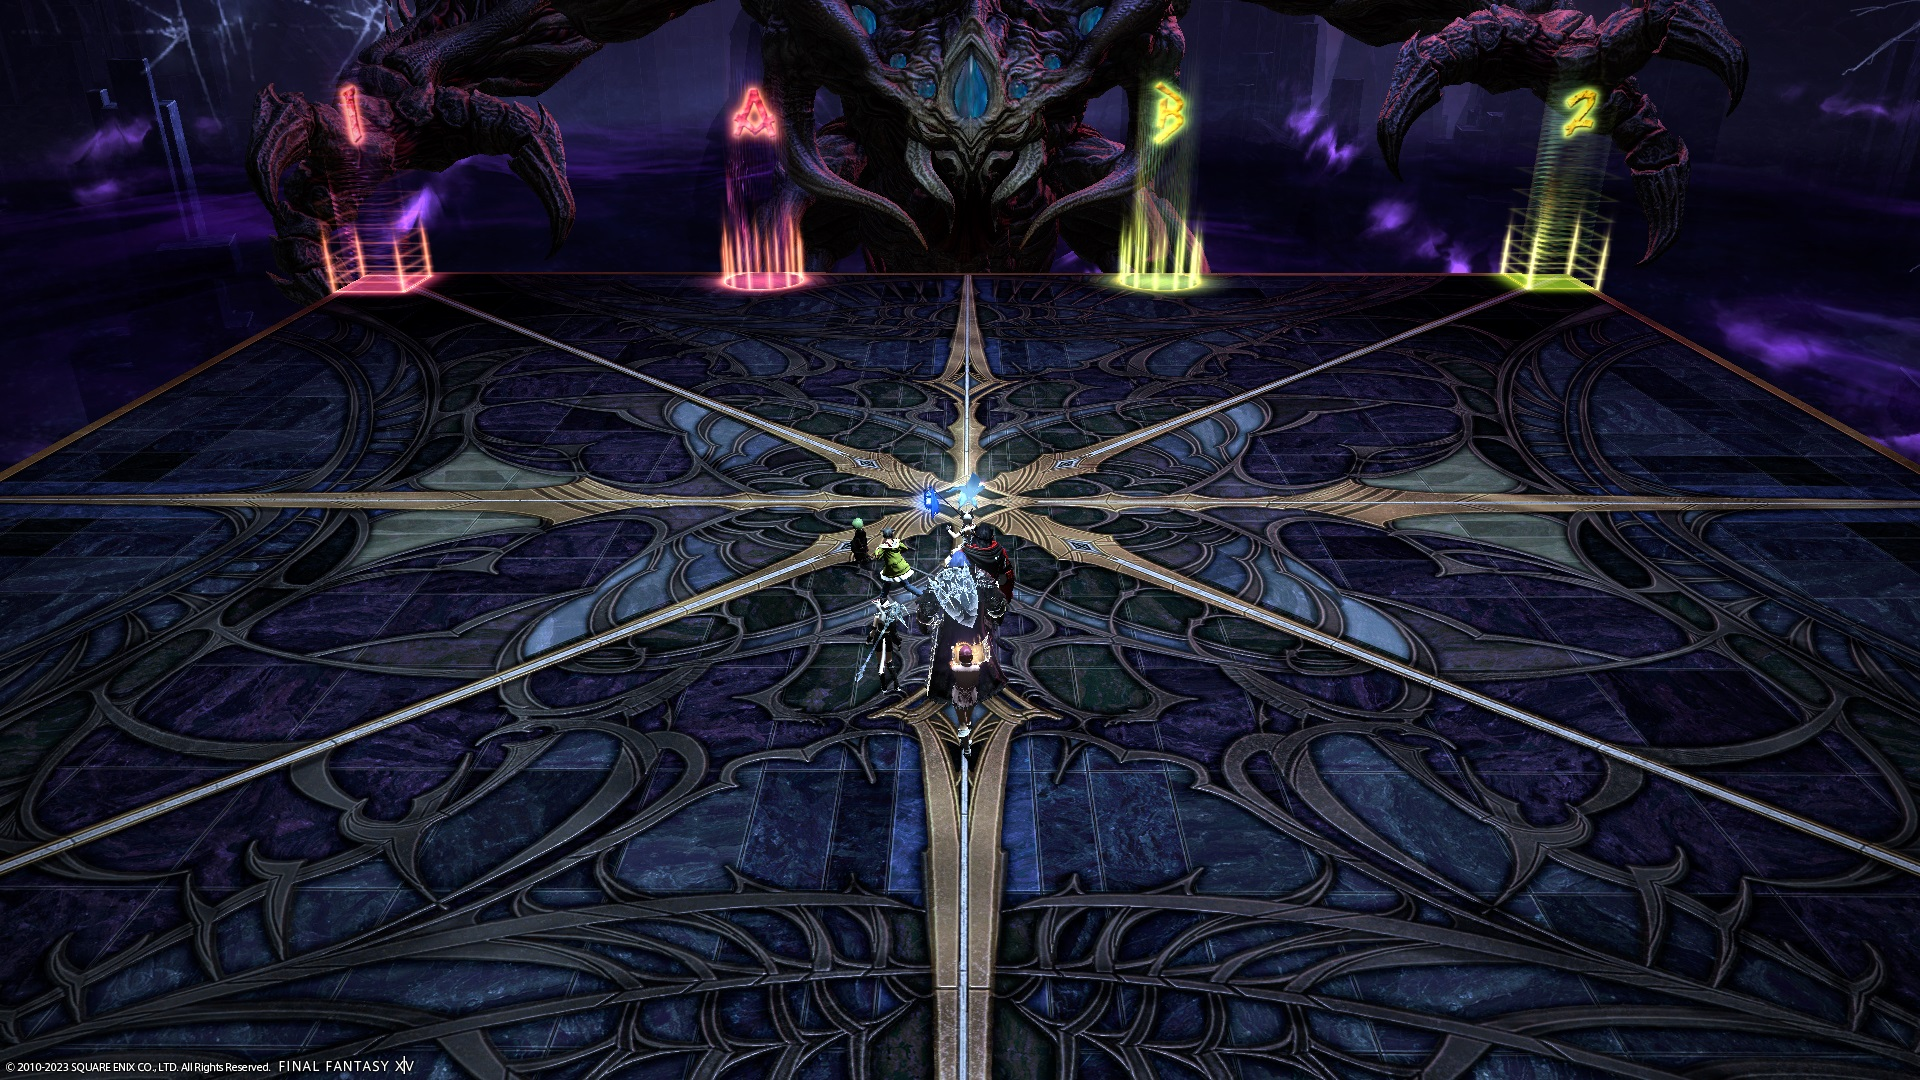
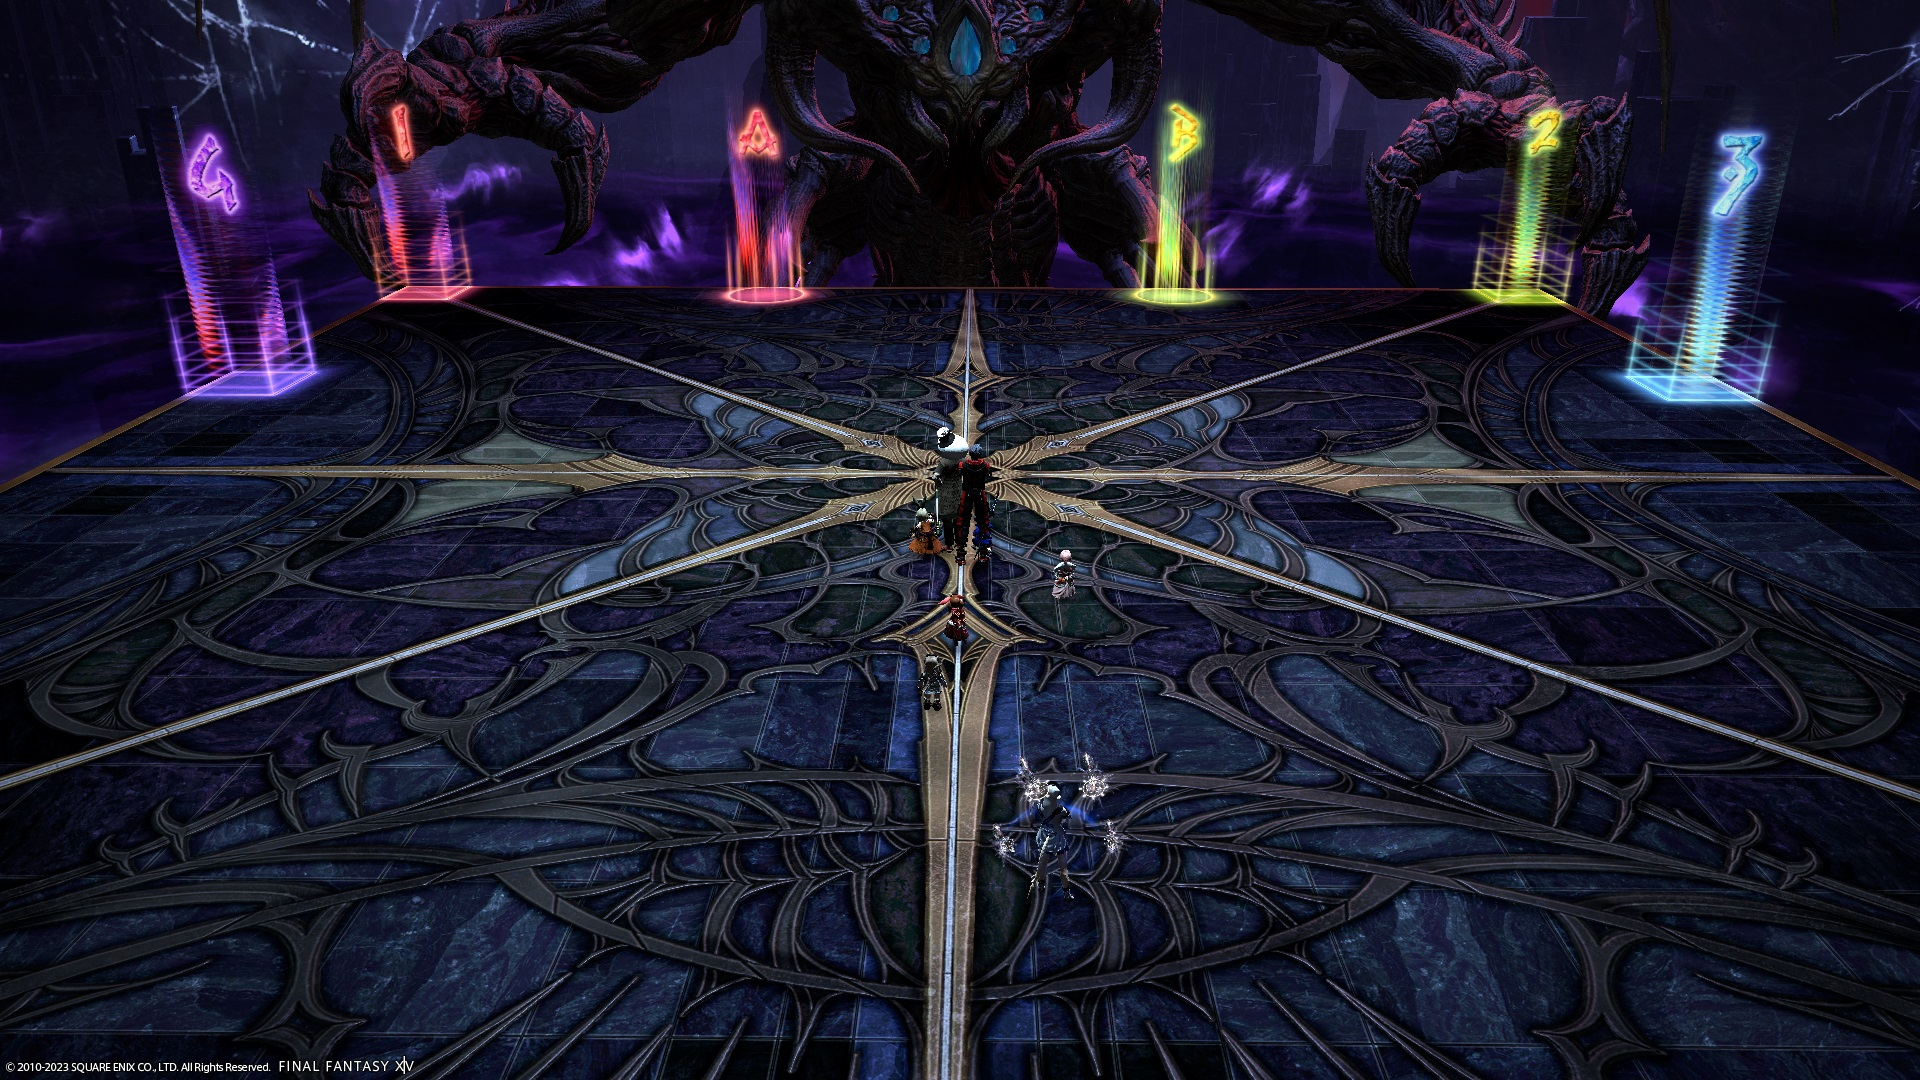
Update markers, add coordinates

diff --git a/6.0_endwalker/extreme_trials/zeromus/README.md b/6.0_endwalker/extreme_trials/zeromus/README.md
@@ -25,9 +25,29 @@ permalink: /6.0_endwalker/extreme_trials/zeromus/
 
 ## Markers
 
-- The `AB` markers are for the party to stack at during Black Hole, while the `12` markers are for the blue marker.
+All markers (except for a center marker) mark safe spots during Visceral Whirl.
+
+In addition, the `AB` markers are for the party to stack at during Black Hole, while the `12` markers are for the marked player dropping the Black Hole.
 
 ![](images/markers.jpg)
+<details markdown=block>
+<summary>XIVLauncher WaymarkPresetPlugin positions</summary>
+
+```json
+{
+  "Name":"Zeromus EX",
+  "MapID":965,
+  "A":{"X":93.0,"Y":0.0,"Z":81.2,"ID":0,"Active":true},
+  "B":{"X":107.0,"Y":0.0,"Z":81.2,"ID":1,"Active":true},
+  "C":{"X":0.0,"Y":0.0,"Z":0.0,"ID":2,"Active":false},
+  "D":{"X":0.0,"Y":0.0,"Z":0.0,"ID":3,"Active":false},
+  "One":{"X":81.2,"Y":0.0,"Z":81.2,"ID":4,"Active":true},
+  "Two":{"X":118.8,"Y":0.0,"Z":81.2,"ID":5,"Active":true},
+  "Three":{"X":118.8,"Y":0.0,"Z":93.0,"ID":6,"Active":true},
+  "Four":{"X":81.2,"Y":0.0,"Z":93.0,"ID":7,"Active":true}
+}
+```
+</details>
 
 ## Frequently Asked Questions
 
